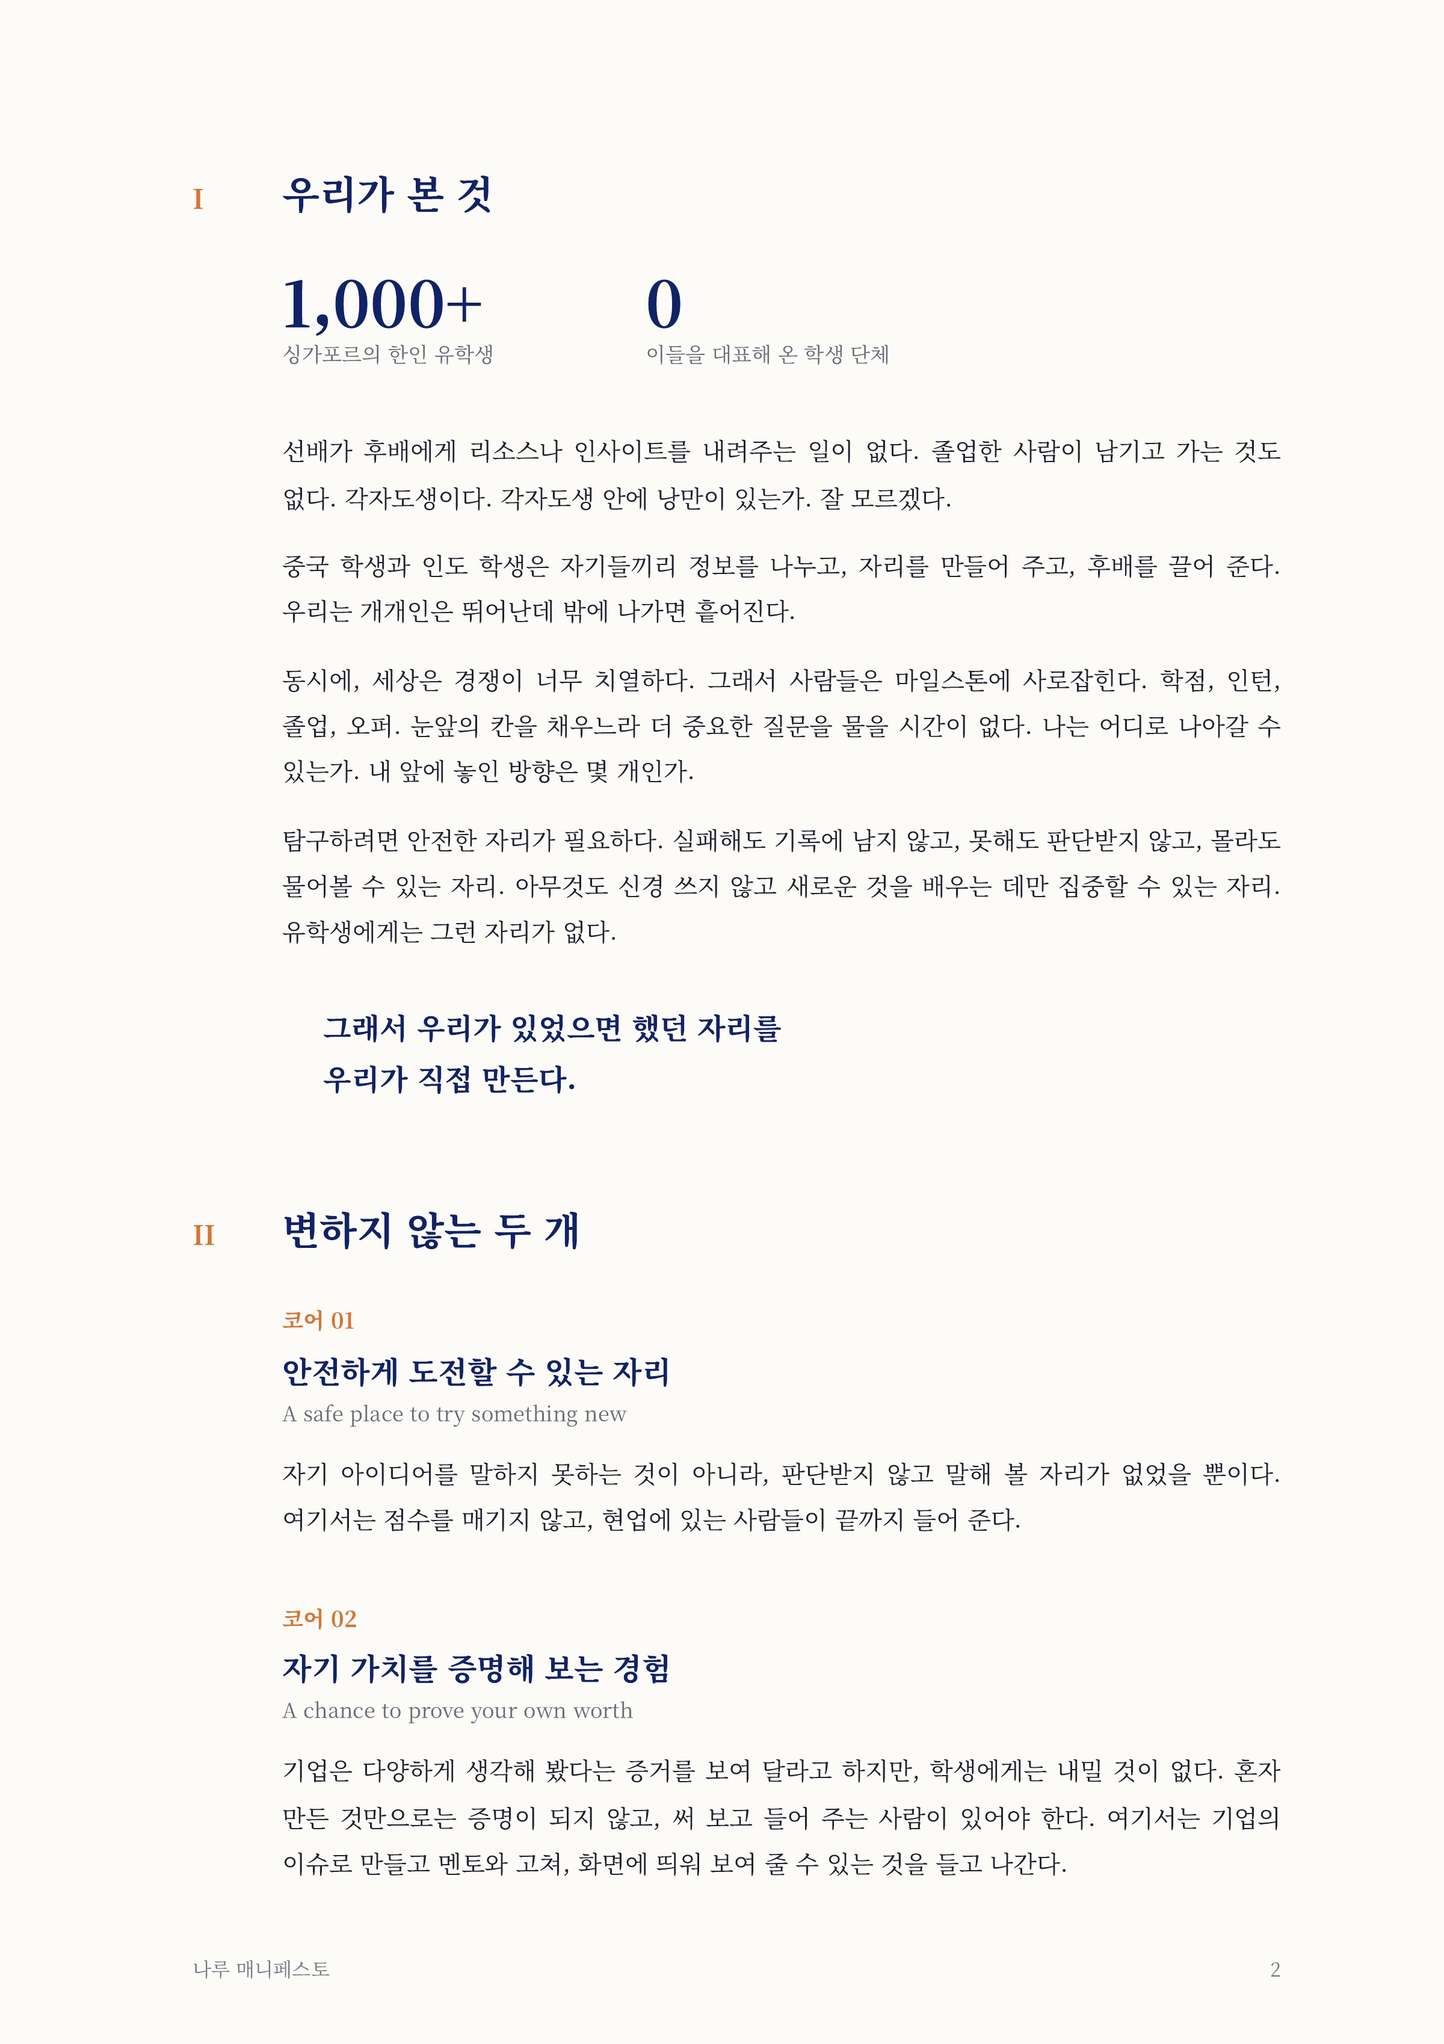
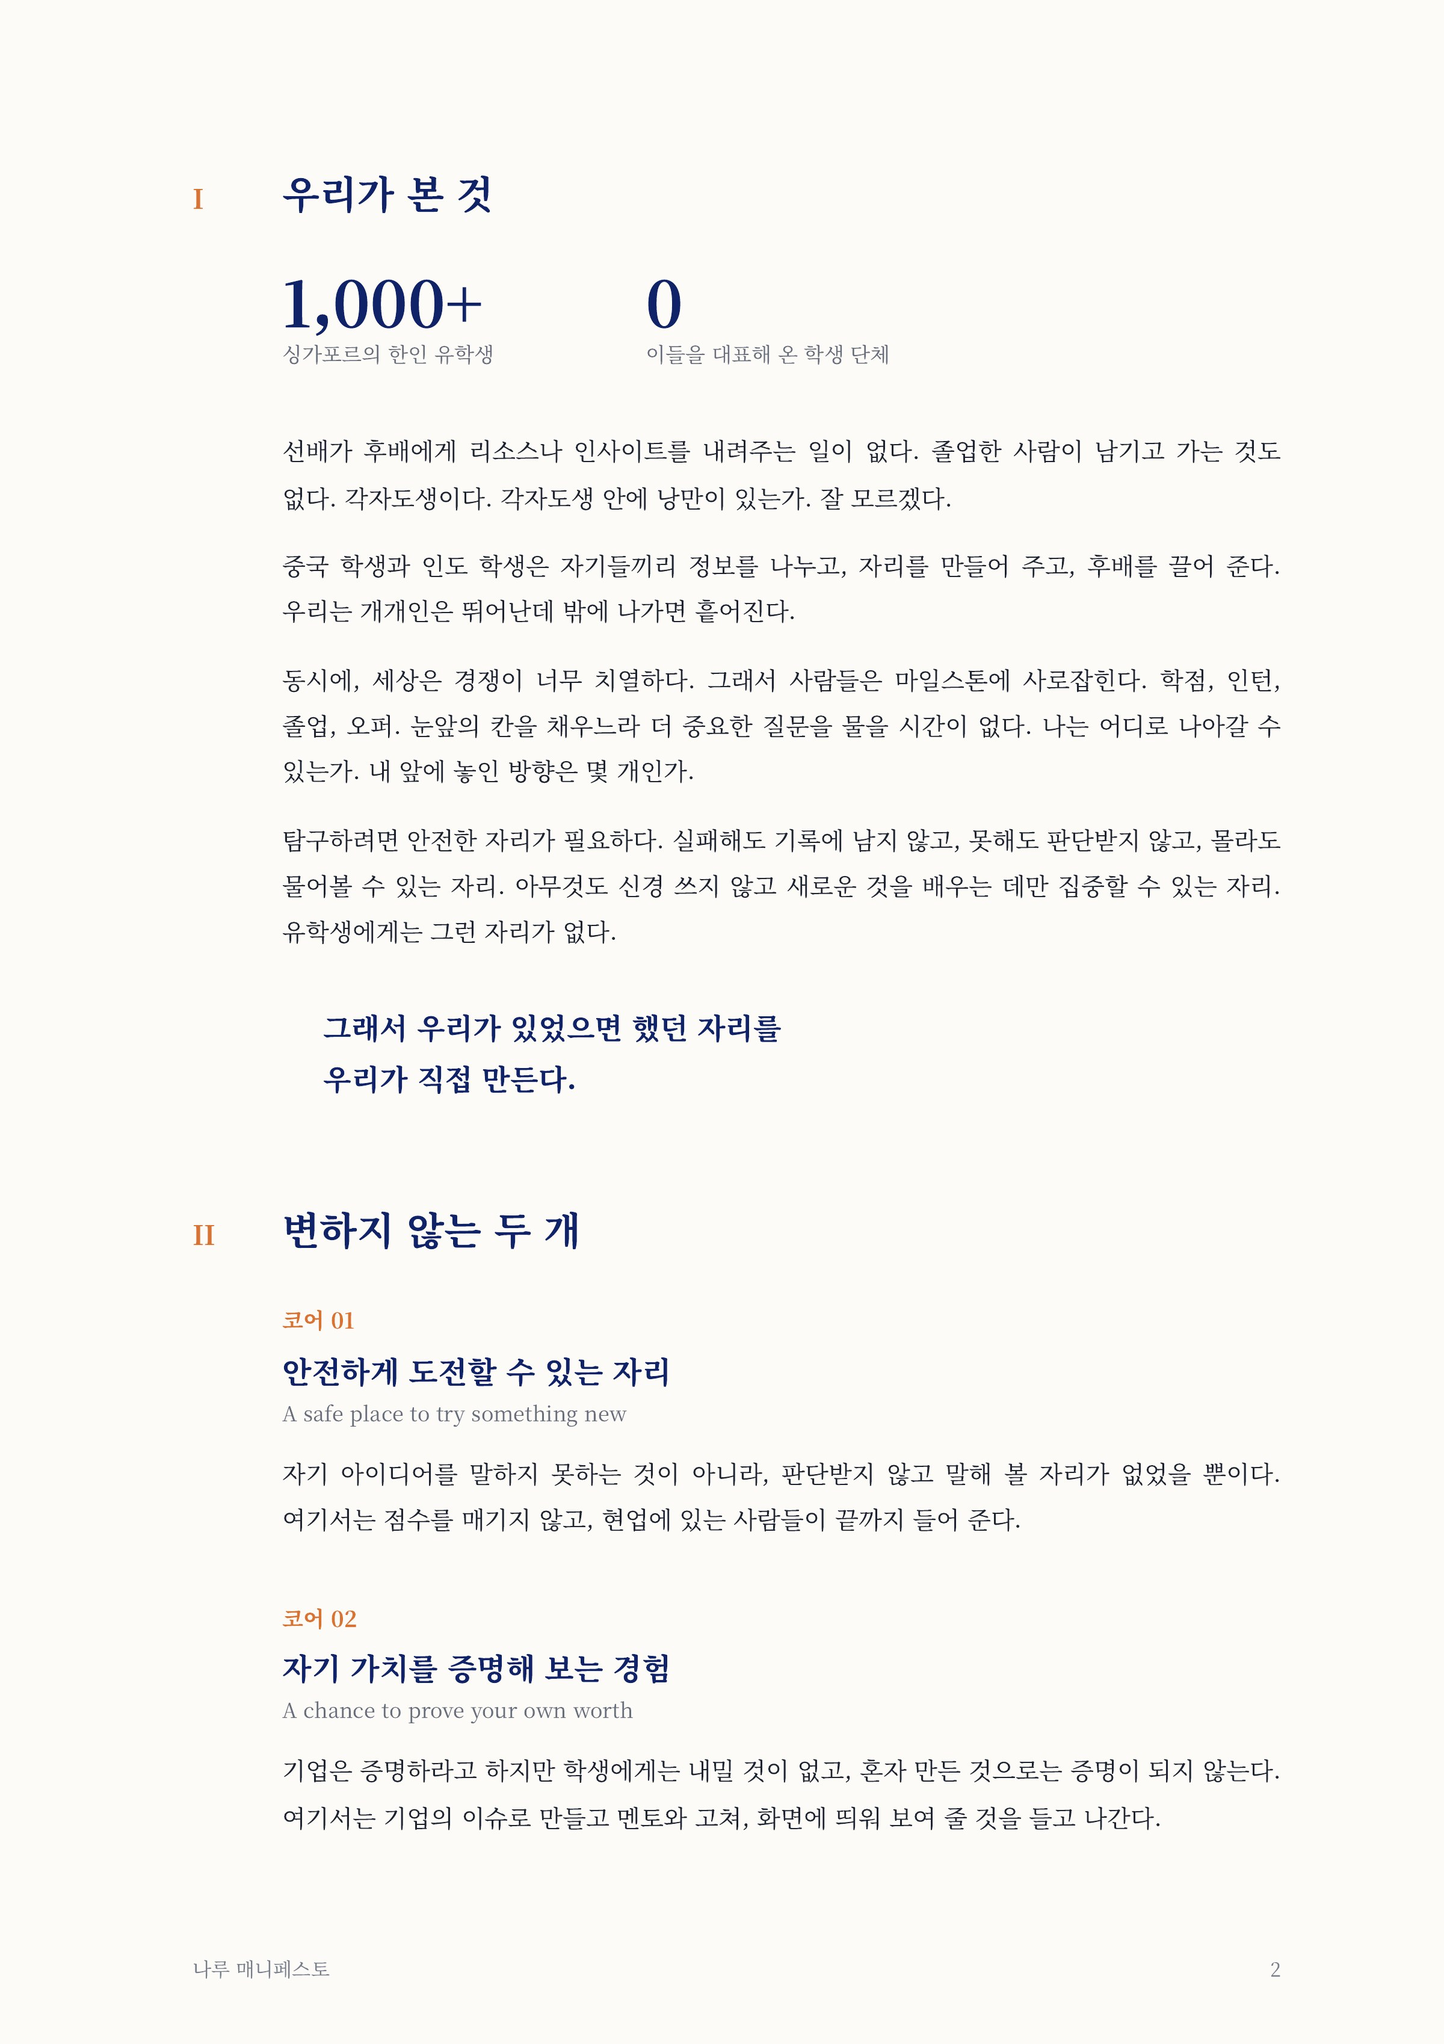
copy(naru): 코어 02를 세 줄로
홈 데스크톱에서 다섯 줄이던 코어 02를 세 줄로 줄였습니다. 전사록 문장의 뜻 순서는 그대로 두고,
"써 보고 들어 주는 사람"은 코어 01이 받습니다. brand 2장, 웹 매니페스토 KO/EN과 쪽 이미지, 조판 스크립트를 같이 맞췄습니다.

Changed region(s): [[0.2188, 0.8425, 0.875, 0.9361]]

diff --git a/data/naru.ts b/data/naru.ts
@@ -780,8 +780,10 @@ export const naru = {
             // DECIDED 2026-10-31 (사용자: 전사록의 표현과 다르다): 기업은 증명하라는데 학생은 내밀 것이 없고, 혼자 만든 것으로는 안 되며,
             // 이슈로 만들고 멘토와 고쳐 화면에 띄울 것을 들고 나간다는 순서로. 발표는 히어로와 프로그램 리드가 말해서 뺐고(brand 5장), AI도 그대로 빼 둡니다(10/30 결정).
             // 그 전: "혼자 만든 것만으로는 증명이 되지 않습니다. 실명이 박힌 기업이 아직 답을 모르는 이슈를 두고 직접 만들고, 실제로 그 일을 하는 사람이 써 보고 들어 준 기록까지 손에 쥐고 나갑니다."
-            ko: "기업은 다양하게 생각해 봤다는 증거를 보여 달라고 하지만, 학생에게는 내밀 것이 없습니다. 혼자 만든 것만으로는 증명이 되지 않고, 써 보고 들어 주는 사람이 있어야 합니다. 여기서는 기업의 이슈로 만들고 멘토와 고쳐, 화면에 띄워 보여 줄 수 있는 것을 들고 나갑니다.",
-            en: "Companies ask for evidence that you have thought things through, and students have nothing to show. Something you built alone does not prove much; someone has to use it and hear it out. Here you build on a company's issue, rework it with mentors, and leave with something you can put on a screen and show.",
+            // DECIDED 2026-10-31 (사용자, 홈 스크린숏 "3줄"): 데스크톱에서 다섯 줄이라 세 줄로. "써 보고 들어 주는 사람"은 코어 01의 "끝까지 들어 줍니다"가 받습니다.
+            // 줄이기 전: "기업은 다양하게 생각해 봤다는 증거를 보여 달라고 하지만, 학생에게는 내밀 것이 없습니다. 혼자 만든 것만으로는 증명이 되지 않고, 써 보고 들어 주는 사람이 있어야 합니다. 여기서는 ..."
+            ko: "기업은 증명하라고 하지만 학생에게는 내밀 것이 없고, 혼자 만든 것으로는 증명이 되지 않습니다. 여기서는 기업의 이슈로 만들고 멘토와 고쳐, 화면에 띄워 보여 줄 것을 들고 나갑니다.",
+            en: "Companies ask for proof, and students have nothing to show; something built alone proves little. Here you build on a company's issue, rework it with mentors, and leave with something you can put on a screen and show.",
           },
         ],
         keeps: {

diff --git a/docs/manifesto-web/ko.html b/docs/manifesto-web/ko.html
@@ -83,7 +83,7 @@ h3 { font-weight: 700; color: var(--navy); font-size: 12.5pt; line-height: 1.5; 
     <div class="core"><div class="label">코어 01</div><h3>안전하게 도전할 수 있는 자리</h3><p class="en">A safe place to try something new</p>
       <p>자기 아이디어를 말하지 못하는 것이 아니라, 판단받지 않고 말해 볼 자리가 없었을 뿐이다. 여기서는 점수를 매기지 않고, 현업에 있는 사람들이 끝까지 들어 준다.</p></div>
     <div class="core"><div class="label">코어 02</div><h3>자기 가치를 증명해 보는 경험</h3><p class="en">A chance to prove your own worth</p>
-      <p>기업은 다양하게 생각해 봤다는 증거를 보여 달라고 하지만, 학생에게는 내밀 것이 없다. 혼자 만든 것만으로는 증명이 되지 않고, 써 보고 들어 주는 사람이 있어야 한다. 여기서는 기업의 이슈로 만들고 멘토와 고쳐, 화면에 띄워 보여 줄 수 있는 것을 들고 나간다.</p></div>
+      <p>기업은 증명하라고 하지만 학생에게는 내밀 것이 없고, 혼자 만든 것으로는 증명이 되지 않는다. 여기서는 기업의 이슈로 만들고 멘토와 고쳐, 화면에 띄워 보여 줄 것을 들고 나간다.</p></div>
     <p>문턱이 낮아야 커뮤니티가 커지고, 롤모델이 있어야 자란다. 둘 중 하나만 있으면 친목 모임이나 엘리트 클럽으로 수렴한다. 둘을 동시에 지키는 것이 이 그룹의 일이고, 부딪힐 때 어느 쪽으로 기울일지 매번 판단하는 것이 실력이다.</p>
   </div>
 </section>

diff --git a/docs/manifesto-web/en.html b/docs/manifesto-web/en.html
@@ -83,7 +83,7 @@ h3 { font-weight: 700; color: var(--navy); font-size: 12.5pt; line-height: 1.5; 
     <div class="core"><div class="label">Core 01</div><h3>A safe place to try something new</h3><p class="en">안전하게 도전할 수 있는 자리</p>
       <p>It isn't that you can't speak up about your own idea; there has been nowhere to try it without being judged. Here nobody scores it, and people who work in the field listen all the way through.</p></div>
     <div class="core"><div class="label">Core 02</div><h3>A chance to prove your own worth</h3><p class="en">자기 가치를 증명해 보는 경험</p>
-      <p>Companies ask for evidence that you have thought things through, and students have nothing to show. Something you built alone does not prove much; someone has to use it and hear it out. Here you build on a company's issue, rework it with mentors, and leave with something you can put on a screen and show.</p></div>
+      <p>Companies ask for proof, and students have nothing to show; something built alone proves little. Here you build on a company's issue, rework it with mentors, and leave with something you can put on a screen and show.</p></div>
     <p>A community grows when the barrier is low, and it matures when there are role models. With only one of the two it collapses into a social club or an elite club. Holding both at once is this group's work, and judging which way to lean when they pull against each other is the skill.</p>
   </div>
 </section>

diff --git a/components/naru/ManifestoViewer.tsx b/components/naru/ManifestoViewer.tsx
@@ -18,7 +18,7 @@ import { BODY, META } from "@/components/ui/typography";
 
 const PAGES = { ko: 6, en: 7 } as const;
 // 이미지를 다시 뽑으면 올립니다. 파일 이름이 같아 브라우저가 옛 쪽을 보여 주지 않게.
-const V = "20261031";
+const V = "20261031b";
 // 뽑은 이미지의 크기. 2026-10-25 (사용자: "너무 흐린데"): 1400px 한 벌을 next/image가 다시 줄이고 눌러 글자가 흐렸습니다.
 // 넘기는 줄은 1000px(-s-), 전체 화면은 2400px 원본을 최적화 없이(unoptimized) 그대로 씁니다.
 const SMALL = { w: 1000, h: 1416 };

diff --git a/docs/brand.md b/docs/brand.md
@@ -1,6 +1,6 @@
 # 나루 브랜드 정본
 
-이 파일은 나루와 크로싱 서울의 브랜드가 무엇인지 적은 유일한 정본입니다. 사이트의 글, 그림, 구조, 순서를 바꾸기 전에 읽습니다. 매니페스토(`12월 빌더톤/그룹 기획/매니페스토_나루.pdf`), Overview, 로고 가이드 v2, 대상별 프레이밍, 모객 콘텐츠 전략에서 뽑았고, 서로 어긋나는 곳은 여기 적힌 것이 이깁니다. 마지막 손질 2026-10-31(2장 코어 둘의 문장을 전사록의 말 그대로). 그 전 2026-10-30(2장 코어 둘의 문장을 전사록의 설명에 맞춤). 그 전 2026-10-26(같은 날 3장 원칙 2의 채널 문장과 4장 첫 문장: 홈은 나루, 크로싱 서울은 /crossing. 6장 예외 C의 자리. 그 전 같은 날: 7장 이슈와 문제, 같은 날 미션의 멘토 찾아가기를 날마다 팀이 함께로, 예약 시점과 멘토 미리 보기, 진척 PDF는 고친 1장, 같은 날 10장 글자 크기 넷과 사이트 UI를 뉴트럴 바탕 + 강조 블루로). 그 전 2026-10-25(1장 정의문을 두 문장으로).
+이 파일은 나루와 크로싱 서울의 브랜드가 무엇인지 적은 유일한 정본입니다. 사이트의 글, 그림, 구조, 순서를 바꾸기 전에 읽습니다. 매니페스토(`12월 빌더톤/그룹 기획/매니페스토_나루.pdf`), Overview, 로고 가이드 v2, 대상별 프레이밍, 모객 콘텐츠 전략에서 뽑았고, 서로 어긋나는 곳은 여기 적힌 것이 이깁니다. 마지막 손질 2026-10-31(2장 코어 둘의 문장을 전사록의 말 그대로, 같은 날 코어 02를 세 줄로). 그 전 2026-10-30(2장 코어 둘의 문장을 전사록의 설명에 맞춤). 그 전 2026-10-26(같은 날 3장 원칙 2의 채널 문장과 4장 첫 문장: 홈은 나루, 크로싱 서울은 /crossing. 6장 예외 C의 자리. 그 전 같은 날: 7장 이슈와 문제, 같은 날 미션의 멘토 찾아가기를 날마다 팀이 함께로, 예약 시점과 멘토 미리 보기, 진척 PDF는 고친 1장, 같은 날 10장 글자 크기 넷과 사이트 UI를 뉴트럴 바탕 + 강조 블루로). 그 전 2026-10-25(1장 정의문을 두 문장으로).
 
 ## 0. 쓰는 법
 
@@ -30,7 +30,7 @@
 자기 아이디어를 말하지 못하는 것이 아니라, 판단받지 않고 말해 볼 자리가 없었을 뿐이다. 여기서는 점수를 매기지 않고, 현업에 있는 사람들이 끝까지 들어 준다. (2026-10-31 사용자: "나의 코어에 대한 표현과 다른데". 코어 검증, 가설 검증 인터뷰 여섯(10/15~10/24)에서 말한 그대로: 못 하는 것이 아니라 판단받지 않고 말해 볼 자리가 없었다, 좋은 분들이 점수 없이 들어 준다. 그 전: "스크리닝하지 않는다. 순위를 매기지 않는다. 자기 아이디어를 자기 목소리로 꺼내도 점수로 돌아오지 않고, 듣는 사람은 다음에 고칠 점을 말한다. 끝까지 해본 것은 남는다." 2026-10-30 사용자: 전사록에서 직접 설명한 코어에 맞춤. 실패가 기록되지 않는다는 말보다 판단받지 않고 자기 목소리로 말해 보는 자리가 중심. 그 전: "못해도 되는 자리다. 여기서 잘하지 못한 것은 어디에도 기록되지 않는다. 대신".)
 
 **CORE 02 자기 가치를 증명해 보는 경험** (A chance to prove your own worth)
-기업은 다양하게 생각해 봤다는 증거를 보여 달라고 하지만, 학생에게는 내밀 것이 없다. 혼자 만든 것만으로는 증명이 되지 않고, 써 보고 들어 주는 사람이 있어야 한다. 여기서는 기업의 이슈로 만들고 멘토와 고쳐, 화면에 띄워 보여 줄 수 있는 것을 들고 나간다. (2026-10-31 사용자: 같은 인터뷰들의 말 그대로: 기업은 증명하라는데 학생은 내밀 것이 없다, 혼자 만들었다고 증명이 되지 않고 써 주고 들어 주는 누군가가 있어야 한다, 이슈를 받아 만들고 멘토링으로 고쳐 화면에 띄울 것을 가져간다. 발표는 홈 히어로와 겹쳐 뺐고, AI는 10/30 결정대로 빼 둔다. 그 전: "혼자 만든 것만으로는 증명이 되지 않는다. 실명이 박힌 기업이 아직 답을 모르는 이슈를 두고 직접 만들고, 실제로 그 일을 하는 사람이 써 보고 들어 준 기록까지 손에 쥐고 나간다." 2026-10-30 사용자: 전사록에 맞춤. 혼자 만든 것으로는 증명이 안 되고, 써 주고 들어 주는 사람이 있어야 증명이 된다. AI는 방법이라 코어 문장에 넣지 않는다. 그 전: "모의가 아니라 진짜 앞에 세운다. ... 자기 판단으로 무언가를 만들고 눈높이를 맞춰 설명해 본다. 그리고 그 경험을 증명하는 실물을 손에 쥐고 나간다." 웹 매니페스토와 정본 PDF의 조판 스크립트(그룹 기획/소스/매니페스토_build.py)는 같은 날 맞췄고, 정본 PDF는 다시 뽑기 전까지 그 전 문장.)
+기업은 증명하라고 하지만 학생에게는 내밀 것이 없고, 혼자 만든 것으로는 증명이 되지 않는다. 여기서는 기업의 이슈로 만들고 멘토와 고쳐, 화면에 띄워 보여 줄 것을 들고 나간다. (2026-10-31 사용자, 홈 스크린숏 "3줄": 데스크톱 홈 칸에서 다섯 줄이라 세 줄로 줄임. "써 보고 들어 주는 사람"은 코어 01의 "끝까지 들어 준다"가 받는다. 줄이기 전: "기업은 다양하게 생각해 봤다는 증거를 보여 달라고 하지만, 학생에게는 내밀 것이 없다. 혼자 만든 것만으로는 증명이 되지 않고, 써 보고 들어 주는 사람이 있어야 한다. 여기서는 기업의 이슈로 만들고 멘토와 고쳐, 화면에 띄워 보여 줄 수 있는 것을 들고 나간다." 같은 날 사용자: 같은 인터뷰들의 말 그대로: 기업은 증명하라는데 학생은 내밀 것이 없다, 혼자 만들었다고 증명이 되지 않고 써 주고 들어 주는 누군가가 있어야 한다, 이슈를 받아 만들고 멘토링으로 고쳐 화면에 띄울 것을 가져간다. 발표는 홈 히어로와 겹쳐 뺐고, AI는 10/30 결정대로 빼 둔다. 그 전: "혼자 만든 것만으로는 증명이 되지 않는다. 실명이 박힌 기업이 아직 답을 모르는 이슈를 두고 직접 만들고, 실제로 그 일을 하는 사람이 써 보고 들어 준 기록까지 손에 쥐고 나간다." 2026-10-30 사용자: 전사록에 맞춤. 혼자 만든 것으로는 증명이 안 되고, 써 주고 들어 주는 사람이 있어야 증명이 된다. AI는 방법이라 코어 문장에 넣지 않는다. 그 전: "모의가 아니라 진짜 앞에 세운다. ... 자기 판단으로 무언가를 만들고 눈높이를 맞춰 설명해 본다. 그리고 그 경험을 증명하는 실물을 손에 쥐고 나간다." 웹 매니페스토와 정본 PDF의 조판 스크립트(그룹 기획/소스/매니페스토_build.py)는 같은 날 맞췄고, 정본 PDF는 다시 뽑기 전까지 그 전 문장.)
 
 (표기: 사이트와 매니페스토 모두 "자리", "증명해 보는"을 씁니다. 연습이라는 말은 나루터의 것이라 코어에 쓰지 않습니다, 6장.)
 

diff --git a/CHANGELOG.md b/CHANGELOG.md
@@ -8,6 +8,7 @@
 
 ### 2026-10
 
+- [2026-10-31 코어 02를 세 줄로](#2026-10-31-core02-3lines)
 - [2026-10-31 코어 둘의 문장을 전사록의 말 그대로 다시](#2026-10-31-core-wording)
 - [2026-10-30 영어 옮긴 동사와 틀 문장을 말하듯이, 남다 7에서 4로](#2026-10-30-humanize-2)
 - [2026-10-30 코어 둘의 문장을 전사록의 설명에 맞춤](#2026-10-30-core-wording)
@@ -435,6 +436,16 @@
 ### 2026-06
 
 - [2026-06-15 Design-revamp polish cycle](#changelog-june-15-2026)
+
+---
+
+<a id="2026-10-31-core02-3lines"></a>
+## 2026-10-31 코어 02를 세 줄로
+- 범위: docs/brand.md(2장), data/naru.ts(why.cores 02), docs/manifesto-web/{ko,en}.html, public/naru/manifesto/(KO 2쪽, EN 3쪽과 썸네일), ManifestoViewer.tsx(이미지 버전), 그룹 기획/소스/매니페스토_build.py(레포 밖)
+- 한 것: 사용자 요청(홈 스크린숏, "3줄"). 코어 02가 데스크톱 홈 칸에서 다섯 줄이었습니다. 같은 날 전사록 문장의 뜻 순서(기업은 증명하라는데 내밀 것이 없다, 혼자 만든 것으로는 안 된다, 이슈로 만들고 멘토와 고쳐 화면에 띄울 것을 가져간다)는 두고 줄였습니다. "써 보고 들어 주는 사람"은 코어 01의 "끝까지 들어 줍니다"가 받습니다. EN도 같은 뜻으로 줄임.
+- 근거: brand 2장(코어 02), 0장과 11장(정본부터 바꾸고 같은 커밋).
+- 검증: 홈 KO 코어 02 1440px 3줄(전 5줄), 1024px 3줄, 390px 4줄. 코어 01은 3줄 그대로. 매니페스토 KO 6쪽, EN 7쪽 그대로.
+- 커밋: 이 항목과 같은 커밋
 
 ---
 
